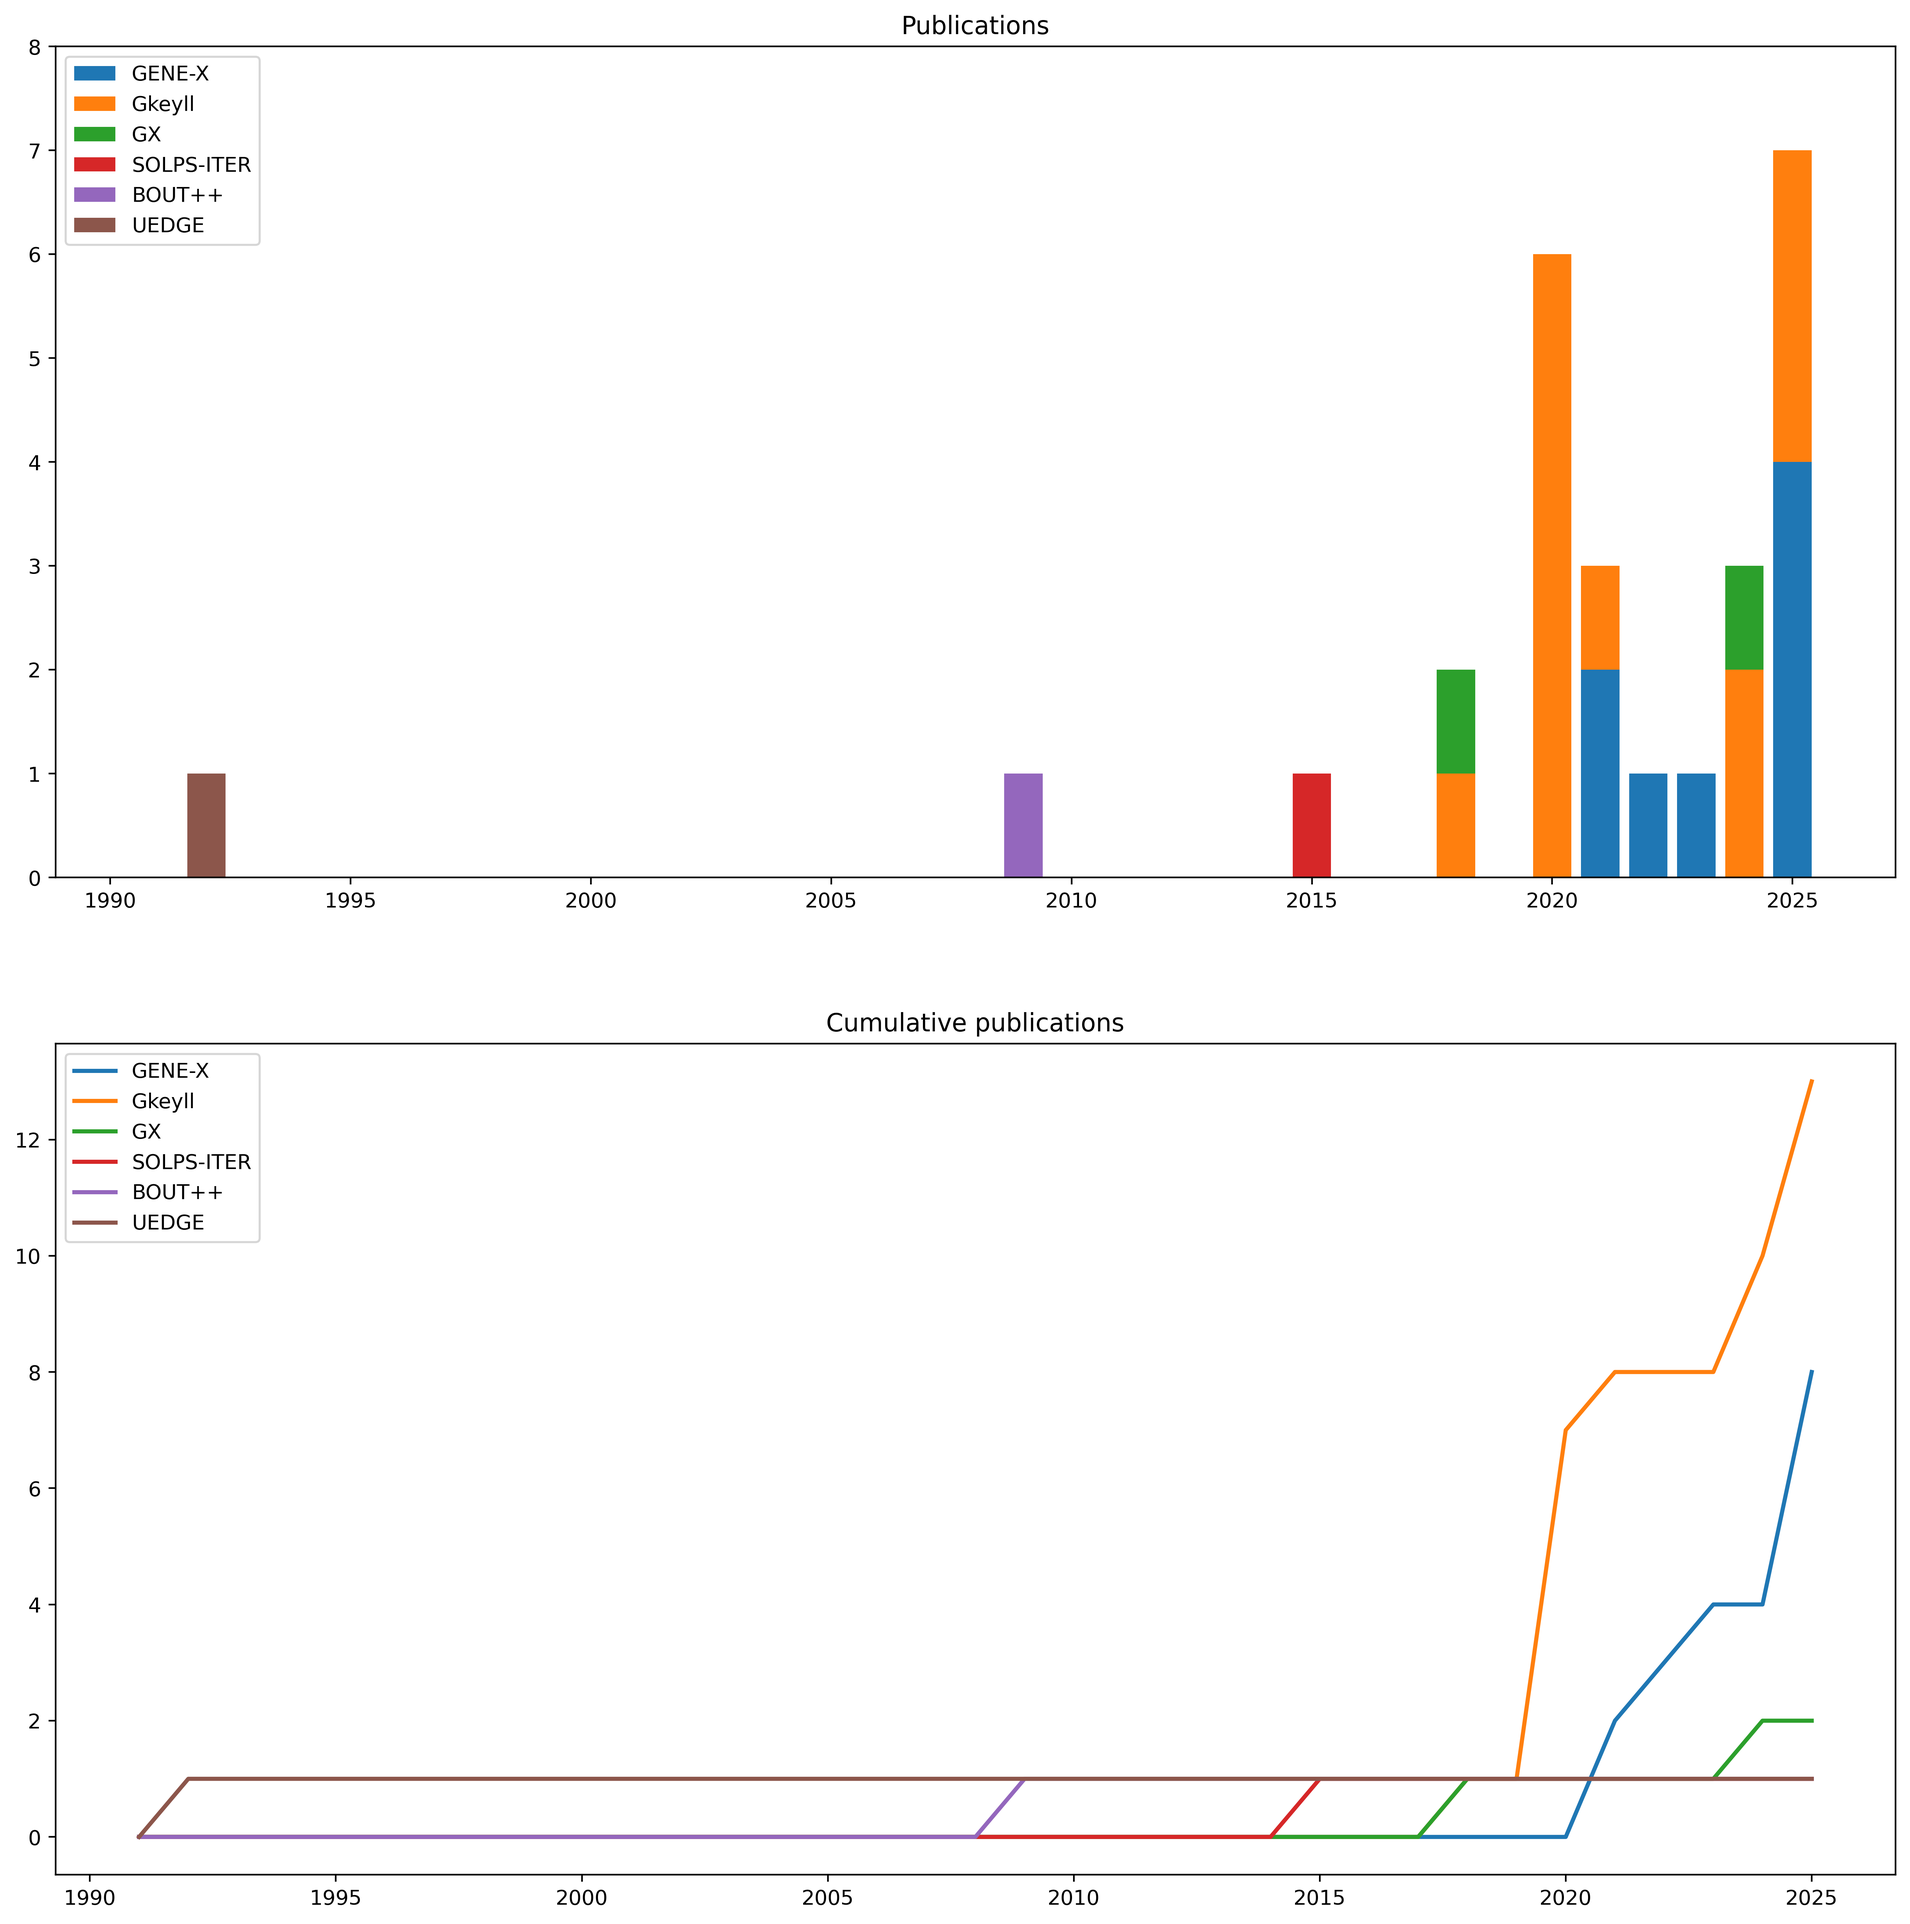
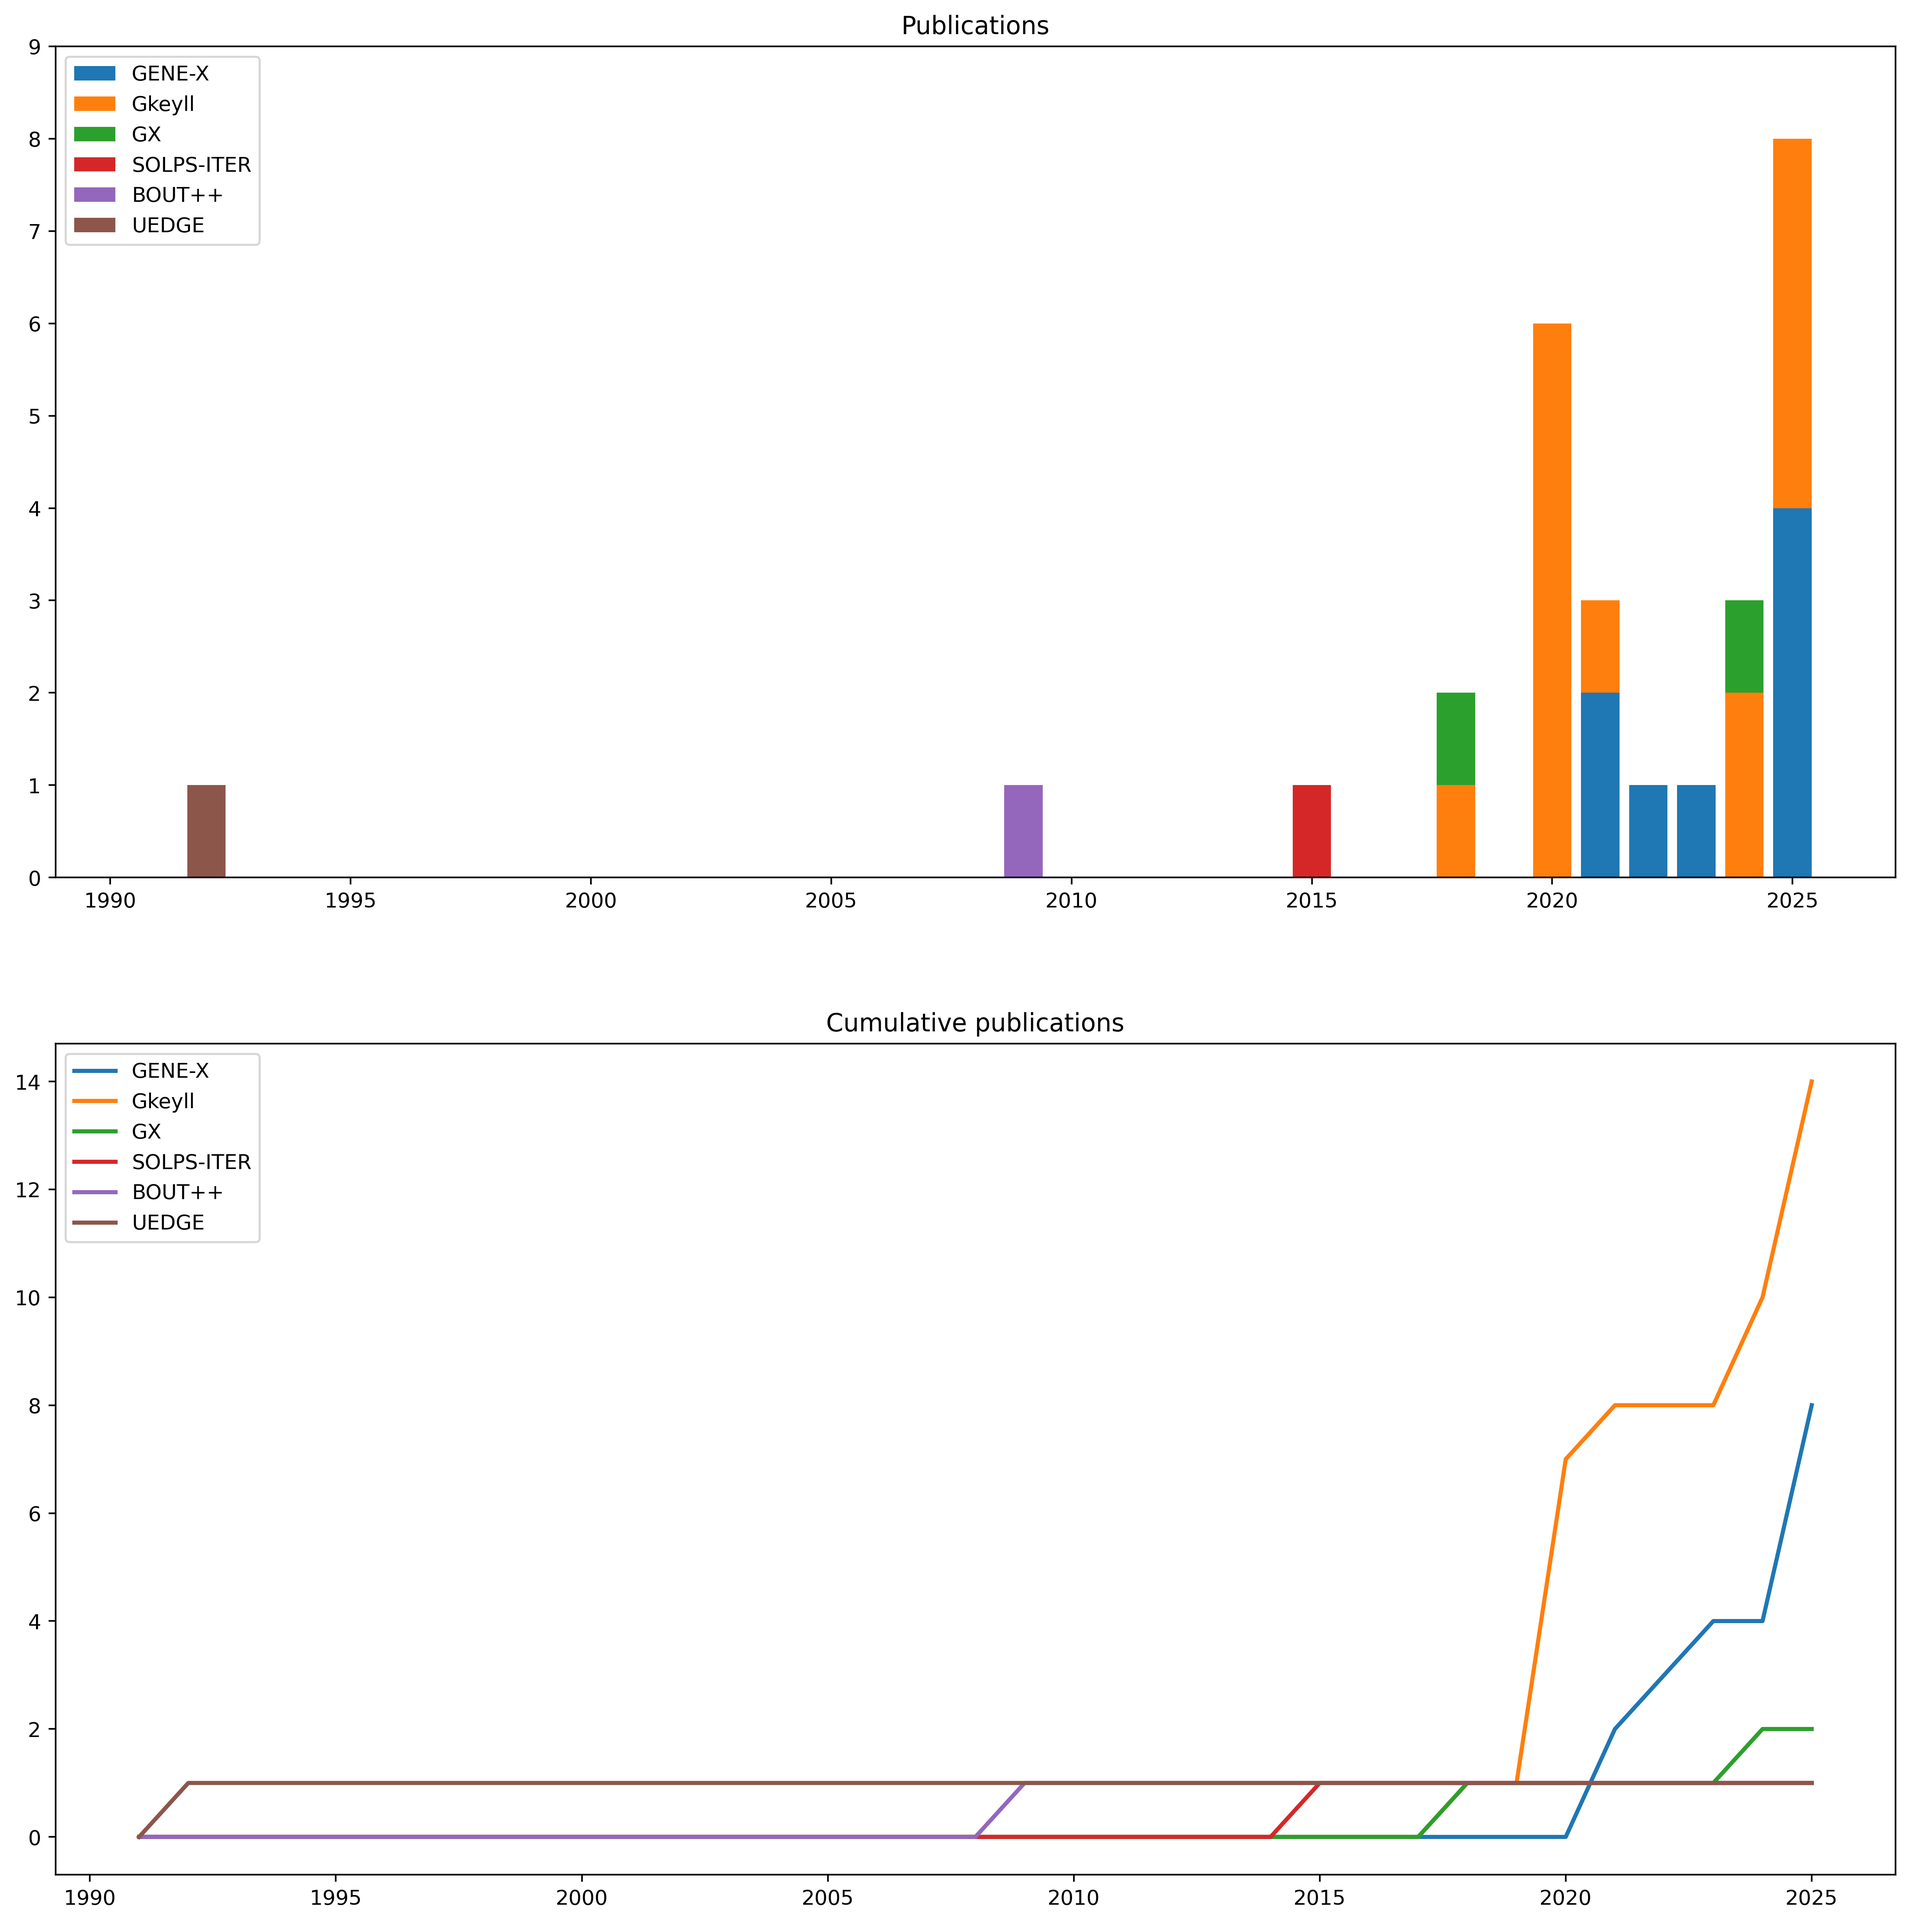
feat: add "10.1063/5.0261942"

diff --git a/README.md b/README.md
@@ -9,6 +9,7 @@
 - A moment-conserving discontinuous Galerkin representation of the relativistic Maxwellian distribution. Johnson at el. (2025) [10.1017/S0022377825100718](https://doi.org/10.1017/S0022377825100718)
 - A parallel-kinetic-perpendicular-moment model for magnetised plasmas. June at el. (2025) [10.1017/S0022377825100706](https://doi.org/10.1017/S0022377825100706)
 - A kinetic line-driven radiation operator and its application to Gyrokinetics. Roeltgen at el. (2025) [10.1088/1741-4326/adff28](https://doi.org/10.1088/1741-4326/adff28)
+- General kinetic ion-induced electron emission model for metallic walls applied to biased Z-pinch electrodes. Skolar at el. (2025) [10.1063/5.0261942](https://doi.org/10.1063/5.0261942)
 - OpenACC and OpenMP-Accelerated Fortran/C++ Gyrokinetic Fusion Code GENE-X for Heterogeneous Architectures. Trilaksono at el. (2025) [10.1145/3732775.3733587](https://doi.org/10.1145/3732775.3733587)
 - Simulations of edge and SOL turbulence in diverted negative and positive triangularity plasmas. Ulbl at el. (2025) [10.1088/1741-4326/adfd70](https://doi.org/10.1088/1741-4326/adfd70)
 - Conservative discontinuous Galerkin interpolation: Sheared boundary conditions. Francisquez at el. (2024) [10.1016/j.cpc.2024.109109](https://doi.org/10.1016/j.cpc.2024.109109)
